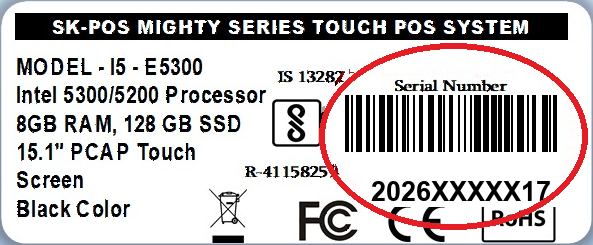
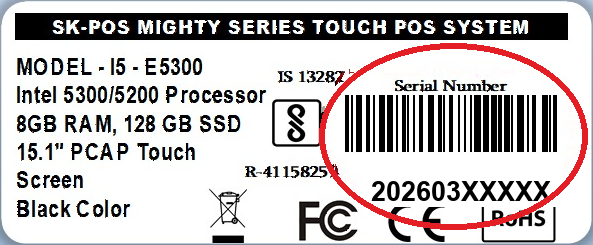
fix: mask the last five characters of the sample serials
Was masking the middle; mask the trailing five instead
(UL25122XXXXX, 202603XXXXX) and correct the hint copy to match.

Re-rendered from the pre-processing originals rather than re-editing the
published images, so the inpaint behind the erased freehand circle isn't
applied twice over the same pixels.

Claude-Session: https://claude.ai/code/session_01QWXwsx9uBfgJmzz8MsSeYd

Changed region(s): [[0.7285, 0.7143, 0.941, 0.8286]]

diff --git a/components/serial-number-help.tsx b/components/serial-number-help.tsx
@@ -73,7 +73,7 @@ export function SerialNumberHelp({ productCategory }: { productCategory?: string
         device — usually underneath or on the back. Look for the number under
         the barcode.
         {sample &&
-          " Enter it exactly as printed; the middle characters are hidden in this example."}
+          " Enter it exactly as printed; the last few characters are hidden in this example."}
       </p>
 
       {sample && (
